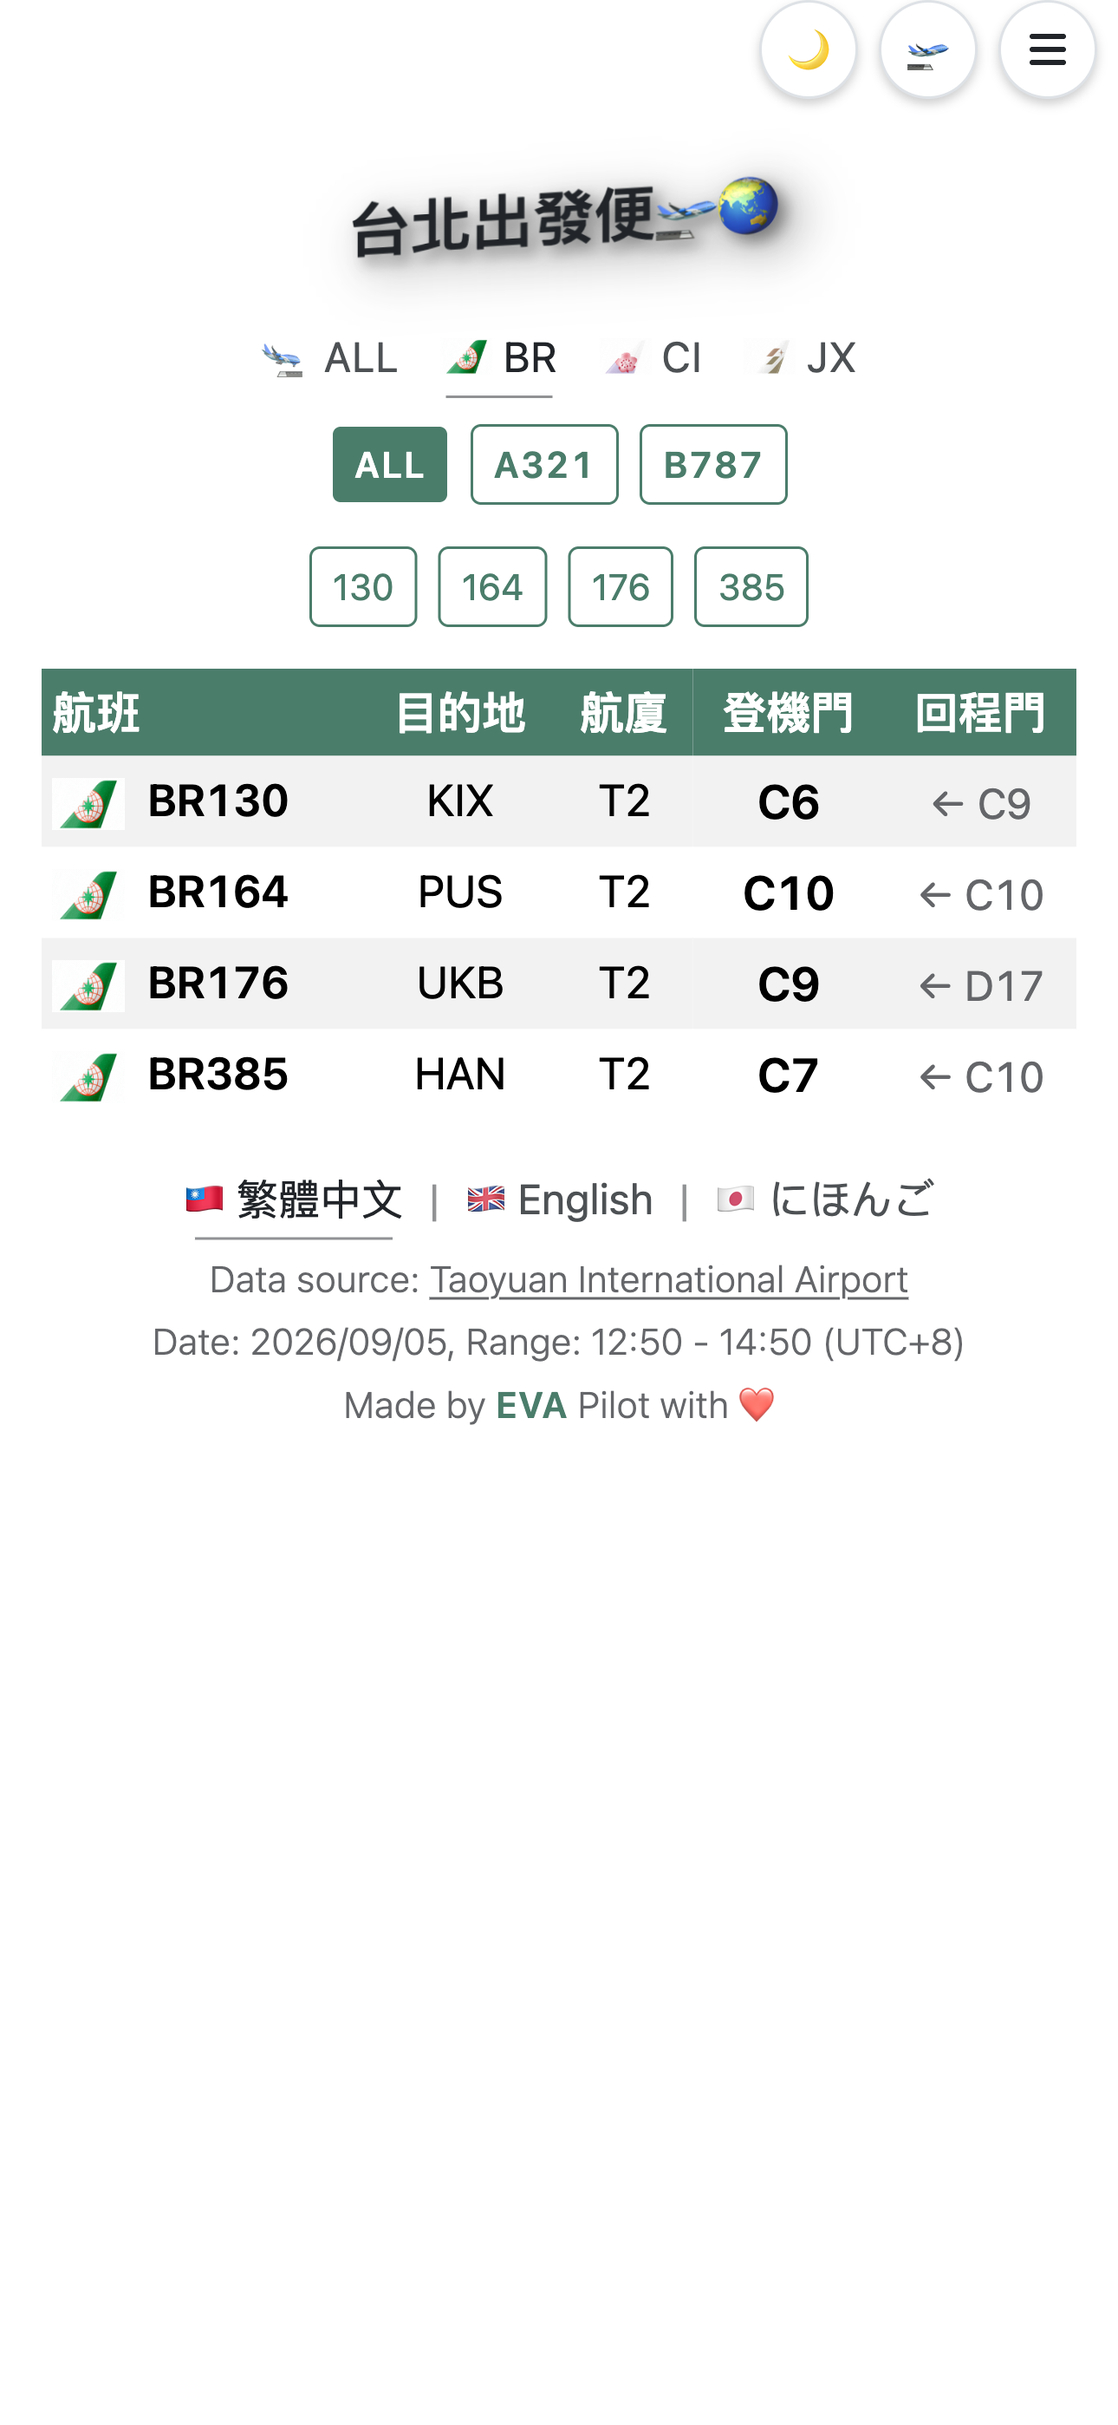
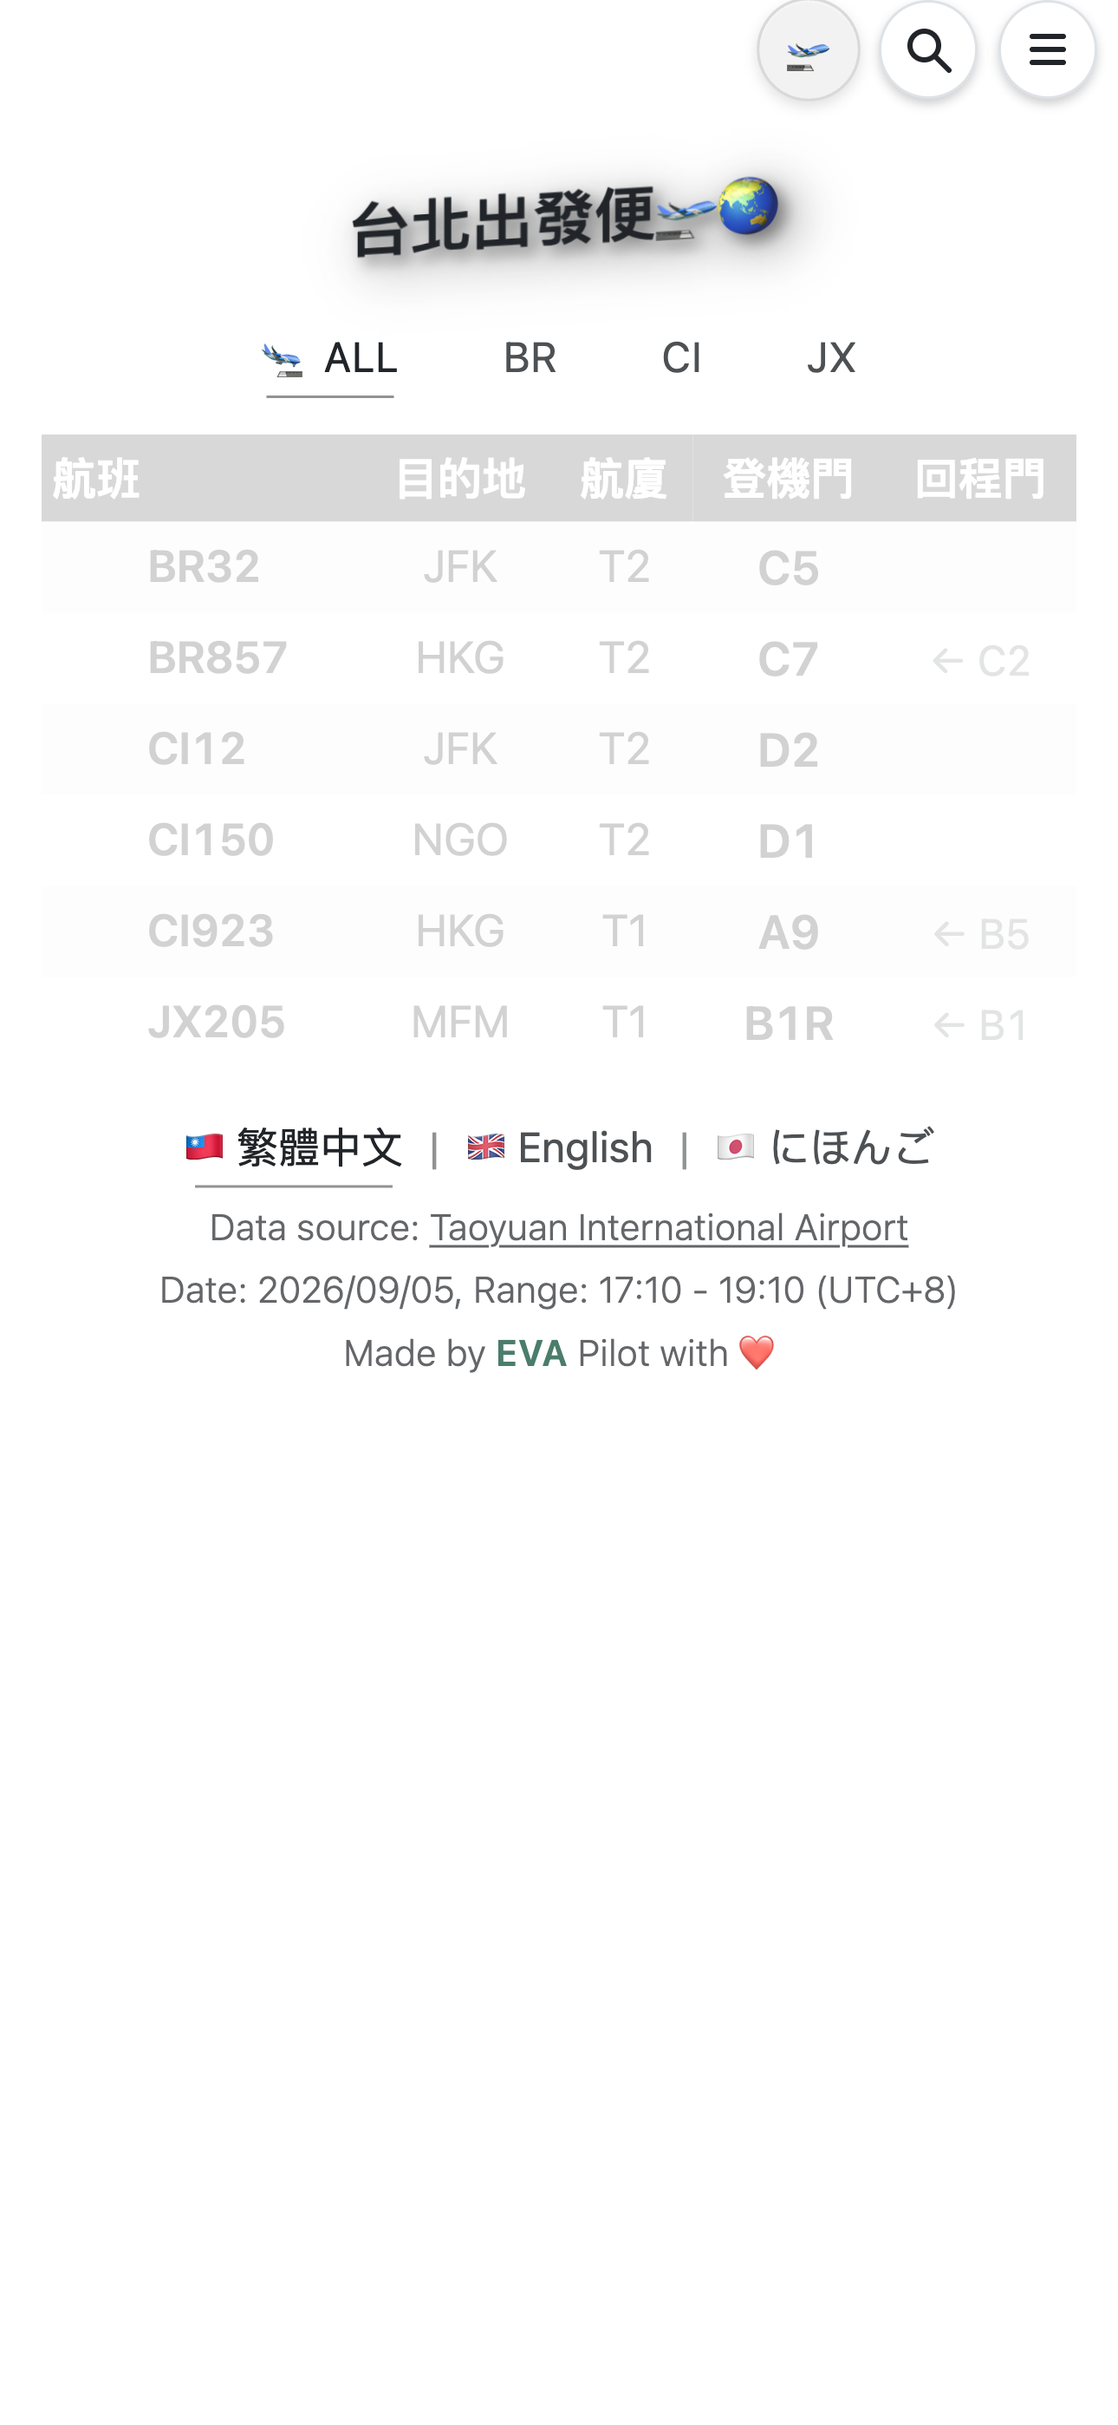
Docs + screenshots for the search-era UI; drawer copy covers cycle + search (#136)
* Docs + screenshots for the search-era header; drawer copy covers cycle + search

- Re-shoot arrivals.png / departures.png from the live site (header is now
  the 3-button cluster: mode, search, about) and add flight-search.png
  showing the quick-dial takeover with a live match.
- README: display-window and quick-dial feature bullets; search capture
  joins the screenshot row.
- Drawer whichFlights: mention the +2h selector (lives at the top of this
  drawer) and teach digits for the search; remembers now includes the
  display window (ForwardHours cookie).

* Mobile header-row: title and cluster share one line (council decision)

Three-model council (GPT-5.6-sol / Claude Opus 5 / GLM-5.3), two rounds,
unanimous: at <=768px the title and the cluster share ONE flex row
(buttons right via row-reverse, title left, flex:1 + min-width:0 +
nowrap so flex siblings cannot overlap by construction), desktop
absolute overlay unchanged. Kills the ~46px page push-down.

Supporting changes from the same council + owner feedback:
- h1 drops the text-center/my-4 Bootstrap utilities (they carry
  !important and beat #title rules); base #title owns text-align/margins.
- drawer whichFlights/remembers copy (zh/en/jp) covers the window
  selector and the persisted display window; search copy teaches digits.
- new e2e: title/cluster same-line + no-overlap guards at 375/430px.

Part of PR #136 (docs + screenshots + drawer copy for the search-era UI).
[…]

Changed region(s): [[0.031, 0.1245, 0.9612, 0.5912], [0.6822, 0.0, 0.7442, 0.0311], [0.8062, 0.0, 0.8372, 0.0311]]

diff --git a/main.js b/main.js
@@ -234,10 +234,10 @@ const translations = {
             "whichFlights": {
                 "heading": "顯示哪些班機",
                 "body": [
-                    "現在前後約兩小時：出發往後兩小時，到達從 40 分鐘前算起。",
+                    "預設顯示前後約兩小時：出發往後兩小時，到達從 40 分鐘前算起。要看得更遠，上面的 +2h 鈕可切 +4／+6／+8 小時。",
                     "確切的日期和時段寫在表格下面那行。",
                     "每次載入都重抓資料。出境過了移民官，再開一次看登機門有沒有換。",
-                    "按 🔍 輸入航班編號，可查當天任何一班，不受時段限制。"
+                    "按 🔍 輸入班號數字，可查當天任何一班，不受時段限制。"
                 ]
             },
             "install": {
@@ -257,7 +257,7 @@ const translations = {
             "remembers": {
                 "heading": "會記住的設定",
                 "body": [
-                    "航空公司、機型、主題、語言，選過就記住，每次打開重新計時。",
+                    "航空公司、機型、主題、語言、顯示時間範圍，選過就記住，每次打開重新計時。",
                     "語言沒選過就跟系統走。"
                 ]
             },
@@ -354,10 +354,10 @@ const translations = {
             "whichFlights": {
                 "heading": "Which flights show up",
                 "body": [
-                    "About two hours around now: departures two hours ahead, arrivals from 40 minutes ago.",
+                    "By default, about two hours around now: departures two hours ahead, arrivals from 40 minutes ago. The +2h button above extends it to +4/+6/+8 hours.",
                     "The exact date and range are in the line under the table.",
                     "Every load fetches fresh data. Once you're through immigration outbound, open it again and re-check your gate.",
-                    "Tap 🔍 and type a flight number to look up any flight today, outside the two-hour window."
+                    "Tap 🔍 and type a flight number's digits to look up any flight today, outside the selected window."
                 ]
             },
             "install": {
@@ -377,7 +377,7 @@ const translations = {
             "remembers": {
                 "heading": "What it remembers",
                 "body": [
-                    "Airline, aircraft type, theme and language. Set once, kept, and the clock restarts each time you open it.",
+                    "Airline, aircraft type, theme, language and the display window. Set once, kept, and the clock restarts each time you open it.",
                     "Language follows your system setting until you pick one."
                 ]
             },
@@ -474,10 +474,10 @@ const translations = {
             "whichFlights": {
                 "heading": "表示される便",
                 "body": [
-                    "今を中心に約2時間。出発は2時間先まで、到着は40分前からです。",
+                    "初期設定では今を中心に約2時間。出発は2時間先まで、到着は40分前からです。上の +2h ボタンで +4/+6/+8 時間に切り替えられます。",
                     "表の下に実際の日付と時間帯が出ます。",
                     "開くたびにデータを取り直します。出発時は出国審査を抜けたら、もう一度開いてゲートを確認してください。",
-                    "🔍 をタップして便名を入力すると、時間帯に関係なく当日のどの便でも調べられます。"
+                    "🔍 をタップして便名の数字を入力すると、時間帯に関係なく当日のどの便でも調べられます。"
                 ]
             },
             "install": {
@@ -497,7 +497,7 @@ const translations = {
             "remembers": {
                 "heading": "覚えている設定",
                 "body": [
-                    "航空会社・機種・テーマ・言語は一度選べばそのまま。期限は開くたびにリセットされます。",
+                    "航空会社・機種・テーマ・言語・表示時間幅は一度選べばそのまま。期限は開くたびにリセットされます。",
                     "言語は選ぶまでシステム設定に従います。"
                 ]
             },
@@ -528,23 +528,31 @@ function renderApp() {
         <div id="refresh-icon"></div>
         <div id="offline-banner" class="offline-banner" hidden></div>
         <div class="container position-relative">
-            <div class="theme-buttons-container">
-                <div id="flight-mode-toggle" role="button" class="flight-toggle-btn" aria-label="Toggle flight mode" tabindex="0">🛬</div>
-                <div id="search-toggle" role="button" class="flight-toggle-btn" aria-label="Search flights" tabindex="0">
-                    <svg width="20" height="20" viewBox="0 0 20 20" aria-hidden="true" focusable="false">
-                        <circle cx="8.5" cy="8.5" r="5.5" fill="none" stroke="currentColor" stroke-width="2"></circle>
-                        <line x1="12.8" y1="12.8" x2="18" y2="18" stroke="currentColor" stroke-width="2" stroke-linecap="round"></line>
-                    </svg>
+            <!-- Issue #130 follow-up — header-row: at ≤768px the title and the
+                 cluster share ONE flex row (buttons right, title left), so the
+                 cluster no longer pushes the page down. Desktop keeps the
+                 absolute top-right overlay; this wrapper stays static so the
+                 cluster's absolute position still resolves against
+                 .container.position-relative. -->
+            <div class="header-row">
+                <div class="theme-buttons-container">
+                    <div id="flight-mode-toggle" role="button" class="flight-toggle-btn" aria-label="Toggle flight mode" tabindex="0">🛬</div>
+                    <div id="search-toggle" role="button" class="flight-toggle-btn" aria-label="Search flights" tabindex="0">
+                        <svg width="20" height="20" viewBox="0 0 20 20" aria-hidden="true" focusable="false">
+                            <circle cx="8.5" cy="8.5" r="5.5" fill="none" stroke="currentColor" stroke-width="2"></circle>
+                            <line x1="12.8" y1="12.8" x2="18" y2="18" stroke="currentColor" stroke-width="2" stroke-linecap="round"></line>
+                        </svg>
+                    </div>
+                    <div id="about-drawer-toggle" role="button" class="flight-toggle-btn" aria-label="About" data-bs-toggle="offcanvas" data-bs-target="#about-drawer" aria-controls="about-drawer" tabindex="0">
+                        <svg width="20" height="20" viewBox="0 0 20 20" aria-hidden="true" focusable="false">
+                            <rect x="3" y="4" width="14" height="2" rx="1" fill="currentColor"></rect>
+                            <rect x="3" y="9" width="14" height="2" rx="1" fill="currentColor"></rect>
+                            <rect x="3" y="14" width="14" height="2" rx="1" fill="currentColor"></rect>
+                        </svg>
+                    </div>
                 </div>
-                <div id="about-drawer-toggle" role="button" class="flight-toggle-btn" aria-label="About" data-bs-toggle="offcanvas" data-bs-target="#about-drawer" aria-controls="about-drawer" tabindex="0">
-                    <svg width="20" height="20" viewBox="0 0 20 20" aria-hidden="true" focusable="false">
-                        <rect x="3" y="4" width="14" height="2" rx="1" fill="currentColor"></rect>
-                        <rect x="3" y="9" width="14" height="2" rx="1" fill="currentColor"></rect>
-                        <rect x="3" y="14" width="14" height="2" rx="1" fill="currentColor"></rect>
-                    </svg>
-                </div>
+                <h1 id="title" class="text-uppercase fw-bold"></h1>
             </div>
-            <h1 id="title" class="text-center text-uppercase fw-bold my-4"></h1>
             <div id="search-bar" class="search-bar" hidden>
                 <form id="search-form" role="search" class="search-form">
                     <label for="search-input" class="visually-hidden search-label"></label>

diff --git a/e2e/toggle-cluster-layout.spec.js b/e2e/toggle-cluster-layout.spec.js
@@ -226,6 +226,46 @@ test.describe('Toggle cluster layout (issue #66)', () => {
   }
 })
 
+// Issue #130 follow-up — header-row: at ≤768px the cluster and the title
+// share ONE flex row (buttons right, title left), so the cluster stops
+// pushing the page down. These guards pin the two properties that make the
+// row safe: same line (no vertical offset) and no horizontal overlap, at
+// both mobile widths the brief covers, plus the cluster fitting the
+// viewport at all.
+test.describe('mobile header-row (issue #130 follow-up)', () => {
+  const MOBILE_VIEWPORTS = [
+    { width: 375, height: 812 },
+    { width: 430, height: 932 },
+  ]
+
+  for (const viewport of MOBILE_VIEWPORTS) {
+    test(`title and cluster share one line without overlap — ${viewport.width}px`, async ({ page }) => {
+      await blockGoogleAnalytics(page)
+      await setupMockApiRoute(page)
+      await page.setViewportSize(viewport)
+      await page.goto('/')
+      await waitForApiAndTable(page)
+
+      const titleBox = await page.locator('#title').boundingBox()
+      const clusterBox = await page.locator('.theme-buttons-container').boundingBox()
+      expect(titleBox).not.toBeNull()
+      expect(clusterBox).not.toBeNull()
+
+      // Same line: vertical centers within a half-button of each other.
+      const titleCenter = titleBox.y + titleBox.height / 2
+      const clusterCenter = clusterBox.y + clusterBox.height / 2
+      expect(Math.abs(titleCenter - clusterCenter)).toBeLessThanOrEqual(19)
+
+      // No horizontal overlap: the title's ink stops before the cluster.
+      expect(titleBox.x + titleBox.width).toBeLessThanOrEqual(clusterBox.x + 2)
+
+      // The whole cluster fits the viewport.
+      expect(clusterBox.x).toBeGreaterThanOrEqual(0)
+      expect(clusterBox.x + clusterBox.width).toBeLessThanOrEqual(viewport.width)
+    })
+  }
+})
+
 // Issue #98: the reduced-motion block only covered the About drawer's transition; #title's
 // 2s dropShadowAnimation (letter-spacing sweep + 3D rotation) ignored the setting entirely,
 // which is exactly the vestibular-trigger category prefers-reduced-motion exists for. This

diff --git a/e2e/user-interaction.spec.js b/e2e/user-interaction.spec.js
@@ -190,9 +190,10 @@ test.describe('User Interaction Tests', () => {
     expect(timeInfo).toMatch(/Date: \d{4}\/\d{2}\/\d{2}, Range: \d{2}:\d{2} - \d{2}:\d{2} \(UTC\+8\)/)
   })
 
-  // Issue #88/#130 — the header-cluster window selector cycles +2/+4/+6/+8h
-  // and wraps back to +2h; the footer Range line follows every step.
-  test('time-window selector cycles the display window and wraps back to +2h', async ({ page }) => {
+  // Issue #88/#130 follow-up — the drawer-header window selector cycles
+  // +2/+4/+6/+8h and wraps back to +2h; the footer Range line follows every
+  // step, and the ForwardHours cookie survives the visibilitychange reload.
+  test('time-window selector cycles the display window, survives a reload, and wraps back to +2h', async ({ page }) => {
     await page.goto('/')
     await page.waitForSelector('#apiParams')
     // The selector lives in the About drawer header (issue #130 follow-up).
@@ -207,6 +208,18 @@ test.describe('User Interaction Tests', () => {
     await expect(btn).toHaveClass(/active/)
     const rangeAfter = await page.locator('#apiParams').textContent()
     expect(rangeAfter).not.toBe(rangeBefore)
+
+    // PR #136 review R3 — the headline: the ForwardHours cookie survives the
+    // visibilitychange auto-reload. Reload and confirm +4h stuck (drawer
+    // closed after reload; text/class assertions work on the hidden element).
+    await page.reload()
+    await page.waitForSelector('#apiParams')
+    await expect(btn).toHaveText('+4h')
+    await expect(btn).toHaveClass(/active/)
+
+    // Re-open the drawer to continue cycling from the restored value.
+    await page.click('#about-drawer-toggle')
+    await expect(page.locator('#about-drawer')).toHaveClass(/\bshow\b/)
 
     await btn.click() // +6h
     await expect(btn).toHaveText('+6h')

diff --git a/style.scss b/style.scss
@@ -89,6 +89,10 @@ body {
   padding: 8px;
   margin: 12px 0;
   font-size: 2rem;
+  /* Owns what the removed text-center/my-4 Bootstrap utilities used to do
+   * (they carry !important and would beat any #title rule — issue #130
+   * follow-up header-row). */
+  text-align: center;
   position: relative;
   z-index: 1;
   text-shadow: 3px 3px 6px var(--shadow-dark);
@@ -889,12 +893,36 @@ body {
    * `top: 10px; right: 10px` are inert under `static` but apply under
    * `relative` — left as-is, the cluster would visibly shift 10px
    * left/down from its in-flow position instead of staying put. */
+  /* Issue #130 follow-up — header-row: the cluster and the title share one
+   * flex row, so the cluster stops pushing the page down. row-reverse
+   * because the cluster precedes the h1 in DOM (buttons right, title left).
+   * Flex siblings cannot overlap by construction — the same guarantee class
+   * as the original #66 in-flow fix. */
+  .header-row {
+    display: flex;
+    flex-direction: row-reverse;
+    align-items: center;
+    gap: 8px;
+  }
+
   .theme-buttons-container {
     position: relative;
     top: auto;
     right: auto;
     justify-content: flex-end;
-    margin: 0 0 4px;
+    margin: 0;
+  }
+
+  .header-row #title {
+    flex: 1 1 auto;
+    min-width: 0;
+    overflow: hidden;
+    white-space: nowrap;
+    text-overflow: ellipsis;
+    text-align: left;
+    margin: 0;
+    padding: 4px;
+    font-size: 1.25rem;
   }
 
   .theme-toggle-btn {

diff --git a/README.md b/README.md
@@ -11,8 +11,10 @@ A mobile-first web app for Taoyuan International Airport flight information. Bui
   <img src="docs/screenshots/arrivals.png" alt="Arrivals — gate, baggage carousel & aircraft" width="270" />
   &nbsp;&nbsp;
   <img src="docs/screenshots/departures.png" alt="Departures — gate, same-day return-leg gate & aircraft" width="270" />
+  &nbsp;&nbsp;
+  <img src="docs/screenshots/flight-search.png" alt="Quick-dial search — type a flight number's digits and the board shows its gate or carousel, any flight today" width="270" />
 </p>
-<p align="center"><sub>Arrivals &amp; departures at a glance — pin your airline, then filter by aircraft family. Traditional Chinese / English / 日本語, dark &amp; light.</sub></p>
+<p align="center"><sub>Arrivals &amp; departures at a glance — pin your airline, filter by aircraft family, or quick-dial any flight number with 🔍. Traditional Chinese / English / 日本語, dark &amp; light.</sub></p>
 
 <p align="center">
   <img src="docs/screenshots/return-gate-light.png" alt="Departures board, 375 px, light theme — return-gate column showing the same-day return leg's arrival gate" width="200" />
@@ -26,7 +28,8 @@ A mobile-first web app for Taoyuan International Airport flight information. Bui
 ## Features
 
 - Real-time arrival / departure data from the Taoyuan Airport API
-- 2-hour time window around the current time, filtered client-side
+- **Display window** — 2 hours around the current time by default, extendable to +4 / +6 / +8h from the drawer; persisted, filtered client-side
+- **Quick-dial search** — tap 🔍, type a flight number's digits, and the board shows that flight's gate / carousel for any flight today (window not applied)
 - Airlines: BR (EVA Air + B7 UNI Air), CI (China Airlines + AE Mandarin), JX (STARLUX)
 - **Aircraft family filter** — pilots pin an airline then narrow to A321 / A330 / A350 / B777 / B787 etc. (family level, dynamic per airline). The pin sticks across sessions; it is only cleared when the pilot clears it themselves (or switches airline).
 - Traditional Chinese / English / Japanese with auto-detection
